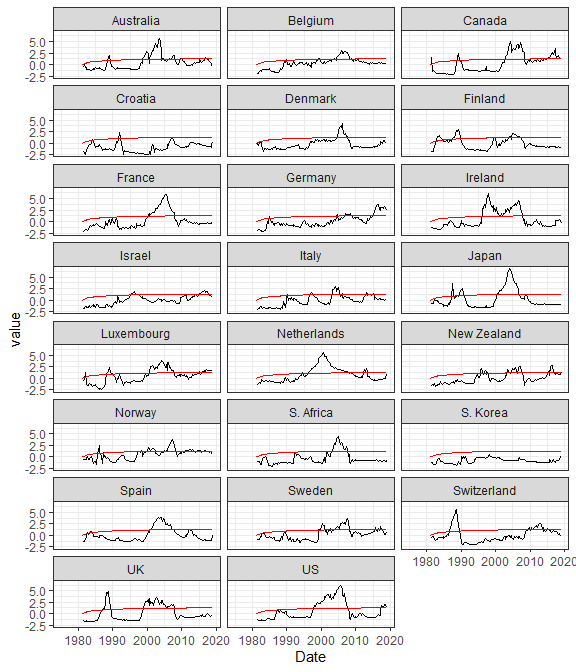
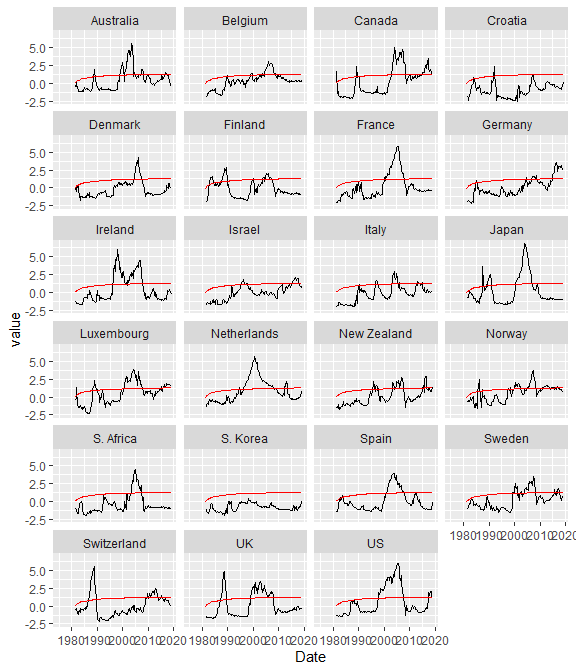
changed readme x axis and fixes to pass checks

Changed region(s): [[0.0312, 0.0, 1.0, 0.9688], [0.75, 0.0, 0.7812, 0.0625]]

diff --git a/README.md b/README.md
@@ -108,8 +108,7 @@ raw_data <- download_raw()
 
 ggplot(raw_data, aes(Date, rhpi)) + 
   geom_line(size = 0.7) + 
-  facet_wrap(~country, ncol = 3) +
-  theme_bw()
+  facet_wrap(~country, ncol = 4) 
 ```
 
 <img src="man/figures/README-rhpi-1.png" width="100%" />
@@ -124,8 +123,7 @@ exuber_data %>%
   ggplot() + 
   geom_line(aes(Date, value), size = 0.7) +
   geom_line(aes(Date, crit), col = "red", size = 0.7) +
-  facet_wrap(~country, ncol = 3) + 
-  theme_bw()
+  facet_wrap(~country, ncol = 4)
 ```
 
 <img src="man/figures/README-exuber-ind-1.png" width="100%" />
